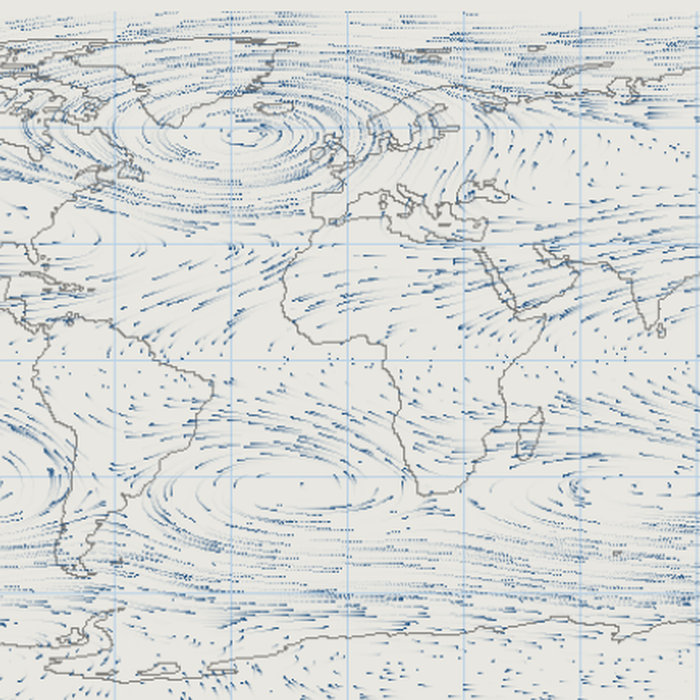
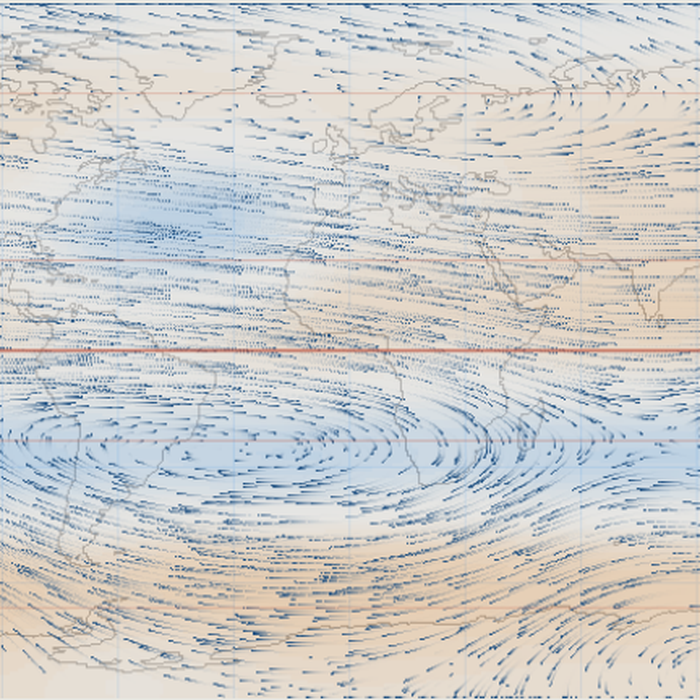
feat(circulation): latitude markers, multi-step advection, pressure on, blended season
Four requests on top of the restored cb69afe baseline. The equator, both tropics and both polar circles are drawn as an overlay above the pressure layer with their names labelled at the left edge. Particles now take three advection substeps per frame instead of one, so the motion covers three times the ground without touching the per-step speed. The pressure layer is on by default. The season is interpolated: each refresh stores the new field as a target and the displayed field is lerped toward it over ten frames, so pressure and wind morph continuously rather than stepping (measured a 0.28 change in the wind field over three consecutive frames). Also cut the refresh cost: pressure colours are now computed on the 360x180 grid and upsampled instead of doing the colour maths on the 840x420 buffer, 41 ms down to 8.5 ms.

diff --git a/apps/Physics/Circulation.py b/apps/Physics/Circulation.py
@@ -237,6 +237,7 @@ def _land_at(nw, nh):
 
 # ==================== 画布 ====================
 _STREAK_W = (26.0, 77.0, 128.0)
+_LINE_RGB = (196.0, 84.0, 58.0)
 _STREAK_O = (24.0, 110.0, 128.0)
 
 
@@ -260,6 +261,16 @@ class MapCanvas(QWidget):
         x0 = (w - mw) / 2.0
         y0 = (h - mh) / 2.0
         p.drawImage(QRectF(x0, y0, mw, mh), app.frame)
+
+        # 特殊纬线标注
+        f = p.font()
+        f.setPointSize(8)
+        p.setFont(f)
+        for lat, text in ((66.5, "北极圈"), (23.5, "北回归线"), (0.0, "赤道"),
+                          (-23.5, "南回归线"), (-66.5, "南极圈")):
+            yy = y0 + (90.0 - lat) / 180.0 * mh
+            p.setPen(QPen(QColor(196, 84, 58, 220), 1))
+            p.drawText(QPointF(x0 + 4, yy - 2), text)
         p.end()
 
 
@@ -278,13 +289,14 @@ class CirculationApp(QMainWindow):
 
         self.wind = WindSim()
         self.show_wind = True
-        self.show_pressure = False
+        self.show_pressure = True
         self.show_grid = True
         self.auto_season = True
         self._season_t = 1.0
         self._season_tick = 0
         self._pressure_rgb = None
         self._rng = np.random.default_rng(7)
+        self.substeps = 3      # 每帧推进的子步数
 
         self.frame = None
         self._base = None
@@ -304,26 +316,21 @@ class CirculationApp(QMainWindow):
         self._t_prev = time.perf_counter()
         self._fps = 0.0
 
-    # ---------- 速度场放大到缓冲分辨率 ----------
+    # ---------- 风场（粒子直接采样，不再预放大到缓冲） ----------
     def _build_velocity(self):
-        w = self.wind.wind_numpy()                    # (180, 360, 2)，第 0 行是南
-        vx = np.flipud(w[:, :, 0])
-        vy = np.flipud(w[:, :, 1])
-        BH, BW = self.BH, self.BW
-
-        def up(f):
-            ys = (np.arange(BH) * f.shape[0] / BH).astype(np.int32)
-            xs = (np.arange(BW) * f.shape[1] / BW).astype(np.int32)
-            return f[np.ix_(ys, xs)]
-
-        mag = np.hypot(w[:, :, 0], w[:, :, 1])
-        ref = max(1e-6, np.percentile(mag, 80))
-        ux, uy = up(vx), up(vy)
-        m = np.hypot(ux, uy)
-        k = np.clip(m / ref, 0.0, 1.0) / np.maximum(m, 1e-9)
-        gain = BW / 144.0 * 0.30                      # 参考的 1 像素/帧是相对 144 宽
-        self._vx_w = (ux * k * gain).astype(np.float32)
-        self._vy_w = (-uy * k * gain).astype(np.float32)
+        w = self.wind.wind_numpy()                    # (180,360,2)，第 0 行是南
+        nu = w[:, :, 0].astype(np.float32)
+        nv = w[:, :, 1].astype(np.float32)
+        if getattr(self, "_wu", None) is None:
+            self._wu, self._wv = nu, nv
+            self._wu_a, self._wv_a = nu.copy(), nv.copy()
+        else:
+            self._wu_a, self._wv_a = self._wu.copy(), self._wv.copy()
+            self._wu_t, self._wv_t = nu, nv
+            self._wphase = 0.0
+        mag = np.hypot(self._wu, self._wv)
+        self._wref = max(1e-6, float(np.percentile(mag, 80)))
+        self._wgain = self.BW / 144.0 * 0.30          # 参考的 1 像素/帧是相对 144 宽
 
     # ---------- 静态底图 ----------
     def _build_base(self):
@@ -343,12 +350,21 @@ class CirculationApp(QMainWindow):
 
         if self.show_grid:
             g = np.zeros((BH, BW), np.float32)
-            for k in range(1, 12):
+            for k in range(1, 12):                    # 经线每 30°
                 g[:, int(BW * k / 12)] = 1.0
-            for k in range(1, 6):
+            for k in range(1, 6):                     # 纬线每 30°
                 g[int(BH * k / 6), :] = 1.0
             g = g[..., None]
-            rgb = np.where(g > 0, rgb * 0.8 + np.array([0, 128, 255], np.float32) * 0.2, rgb)
+            rgb = np.where(g > 0, rgb * 0.82 + np.array([0, 128, 255], np.float32) * 0.18, rgb)
+
+        # 特殊纬线做成独立遮罩，最后盖在气压层之上
+        self._line_a = np.zeros((BH, BW, 1), np.float32)
+        for lat, strength in ((0.0, 0.62), (23.5, 0.34), (-23.5, 0.34),
+                              (66.5, 0.24), (-66.5, 0.24)):
+            y = int((90.0 - lat) / 180.0 * BH)
+            y = min(max(y, 0), BH - 1)
+            thick = 2 if lat == 0.0 else 1
+            self._line_a[max(0, y - thick + 1):y + 1, :, 0] = strength
 
         self._base = np.clip(rgb, 0, 255).astype(np.uint8)
         self._base_f = self._base.astype(np.float32)
@@ -358,26 +374,22 @@ class CirculationApp(QMainWindow):
 
     # ---------- 气压层（照参考 shader 的配色） ----------
     def _build_pressure(self):
-        """LOW = 蓝，HIGH = 橙；经过 0.9-0.8*rgb 反相后，
-        低压呈暖橙色、高压呈淡蓝色，和参考的观测图一致。"""
+        """LOW = 蓝，HIGH = 橙；经 0.9-0.8*rgb 反相后低压暖橙、高压淡蓝。
+        配色在 360×180 上算完再放大，避免在大图上做浮点运算。"""
         p = np.flipud(self.wind.pressure())
-        BH, BW = self.BH, self.BW
-        ys = (np.arange(BH) * p.shape[0] / BH).astype(np.int32)
-        xs = (np.arange(BW) * p.shape[1] / BW).astype(np.int32)
-        pb = p[np.clip(ys, 0, p.shape[0] - 1)][:, np.clip(xs, 0, p.shape[1] - 1)]
-
-        floor_p = np.floor(pb)
-        t1 = _smoothstep(1000.0, 1012.0, floor_p)
-        t2 = _smoothstep(1012.0, 1024.0, floor_p)
+        floor_p = np.floor(p)
+        t1 = _smoothstep(1000.0, 1012.0, floor_p)[..., None]
+        t2 = _smoothstep(1012.0, 1024.0, floor_p)[..., None]
         low = np.array([0.0, 0.5, 1.0], np.float32)
         high = np.array([1.0, 0.5, 0.0], np.float32)
-        r = low * (1.0 - t1)[..., None]
-        r = r * (1.0 - t2[..., None]) + high * t2[..., None]
+        r = low * (1.0 - t1)
+        r = r * (1.0 - t2) + high * t2
         rgb = 0.9 - 0.8 * (0.5 * r)
         small = np.clip(rgb * 255.0, 0, 255).astype(np.uint8)
-        from scipy.ndimage import zoom
-        big = zoom(small.astype(np.float32), (BH / small.shape[0], BW / small.shape[1], 1), order=1)
-        self._pressure_rgb = np.clip(big, 0, 255).astype(np.uint8)
+        BH, BW = self.BH, self.BW
+        ys = (np.arange(BH) * small.shape[0] / BH).astype(np.int32)
+        xs = (np.arange(BW) * small.shape[1] / BW).astype(np.int32)
+        self._pressure_rgb = small[ys][:, xs]
 
     def _apply_pressure(self):
         base = self._base_f
@@ -385,11 +397,14 @@ class CirculationApp(QMainWindow):
             return base
         pr = self._pressure_rgb.astype(np.float32)
         # 气压层只做 62% 叠加，海岸线和纸面纹理仍然保留
-        return base * 0.38 + pr * 0.62
+        return base * 0.48 + pr * 0.52
 
     # ---------- 粒子推进（照 getPosition 的规则） ----------
-    def _step_particles(self, vx, vy, px, py, dens, spawn, die):
-        """每个像素最多一个粒子；粒子一步移动 |v|≤1 像素，拖尾 0.9 衰减。"""
+    def _step_particles(self, px, py, dens, spawn, die):
+        """每个像素最多一个粒子；一步移动 <1 格，拖尾 0.9 衰减。
+
+        速度直接对风场双线性采样，这样季节插值才真正作用到粒子上。
+        """
         BH, BW = self.BH, self.BW
         alive = px >= 0
         ys, xs = np.nonzero(alive)
@@ -399,14 +414,19 @@ class CirculationApp(QMainWindow):
         if len(ys):
             keep = self._rng.random(len(ys)) > die
             ys, xs = ys[keep], xs[keep]
-            nx = np.mod(px[ys, xs] + vx[ys, xs], BW)
-            ny = np.clip(py[ys, xs] + vy[ys, xs], 0, BH - 1)
+            mx = px[ys, xs] / BW * W
+            my = (1.0 - py[ys, xs] / BH) * H
+            uu = _bilinear(self._wu, mx, my)
+            vv = _bilinear(self._wv, mx, my)
+            m = np.hypot(uu, vv)
+            k = np.clip(m / self._wref, 0.0, 1.0) / np.maximum(m, 1e-9)
+            nx = np.mod(px[ys, xs] + uu * k * self._wgain, BW)
+            ny = np.clip(py[ys, xs] - vv * k * self._wgain, 0, BH - 1)
             tx = np.clip(nx.astype(np.int32), 0, BW - 1)
             ty = np.clip(ny.astype(np.int32), 0, BH - 1)
             new_px[ty, tx] = nx
             new_py[ty, tx] = ny
 
-        # 空白像素里稀疏地诞生新粒子（用泊松抽样，避免每帧生成整屏随机数）
         empty = (new_px < 0).sum()
         k = self._rng.poisson(spawn * empty)
         if k > 0:
@@ -420,6 +440,17 @@ class CirculationApp(QMainWindow):
         return new_px, new_py, dens
 
     # ---------- 合成 ----------
+    def _blend_wind(self):
+        """每帧把风场从上一版平滑推向新版，季节才是连续变化而不是跳变。"""
+        if getattr(self, "_wu_t", None) is None:
+            return
+        self._wphase = min(1.0, self._wphase + 1.0 / 10.0)
+        f = self._wphase
+        np.multiply(self._wu_t - self._wu_a, f, out=self._wu)
+        self._wu += self._wu_a
+        np.multiply(self._wv_t - self._wv_a, f, out=self._wv)
+        self._wv += self._wv_a
+
     def _compose(self):
         out = self._compose_buf
         out[:] = self._apply_pressure() if self.show_pressure else self._base_f
@@ -431,6 +462,13 @@ class CirculationApp(QMainWindow):
                 ch = out[:, :, c]
                 ch *= inv
                 ch += _STREAK_W[c] * a
+        if getattr(self, "_line_a", None) is not None:
+            a = self._line_a
+            inv = 1.0 - a
+            for c, v in enumerate(_LINE_RGB):
+                ch = out[:, :, c]
+                ch *= inv[:, :, 0]
+                ch += v * a[:, :, 0]
         self._compose_u8[:] = np.clip(out, 0, 255)
         self.frame = QImage(self._compose_u8.data, self.BW, self.BH,
                             self.BW * 3, QImage.Format_RGB888).copy()
@@ -447,7 +485,8 @@ class CirculationApp(QMainWindow):
             if self._season_t >= 13.0:
                 self._season_t -= 12.0
         self._season_tick += 1
-        if self._season_tick % 6 == 0:
+        self._blend_wind()
+        if self._season_tick % 10 == 0:
             self.wind.update(self._season_t)
             self._build_velocity()
             if self.show_pressure:
@@ -456,8 +495,11 @@ class CirculationApp(QMainWindow):
                 self.lbl_month.setText(f"{self._season_t % 12.0 + 0.5:.1f} 月")
 
         if self.show_wind:
-            self._px_w, self._py_w, self._dens_w = self._step_particles(
-                self._vx_w, self._vy_w, self._px_w, self._py_w, self._dens_w, 1.3e-4, 5e-3)
+            # 每帧走多步：步数上去，粒子看起来才够快
+            for _k in range(self.substeps):
+                self._px_w, self._py_w, self._dens_w = self._step_particles(
+                    self._px_w, self._py_w, self._dens_w,
+                    0.0 if _k else 2.0e-4, 5e-3)
         else:
             self._dens_w *= 0.9
         self._compose()
@@ -521,7 +563,7 @@ class CirculationApp(QMainWindow):
         v2.setSpacing(4)
         v2.setContentsMargins(8, 8, 8, 8)
         for text, attr, checked in (("风场流线", "show_wind", True),
-                                    ("气压分布", "show_pressure", False),
+                                    ("气压分布", "show_pressure", True),
                                     ("经纬网", "show_grid", True)):
             cb = QCheckBox(text)
             cb.setChecked(checked)
